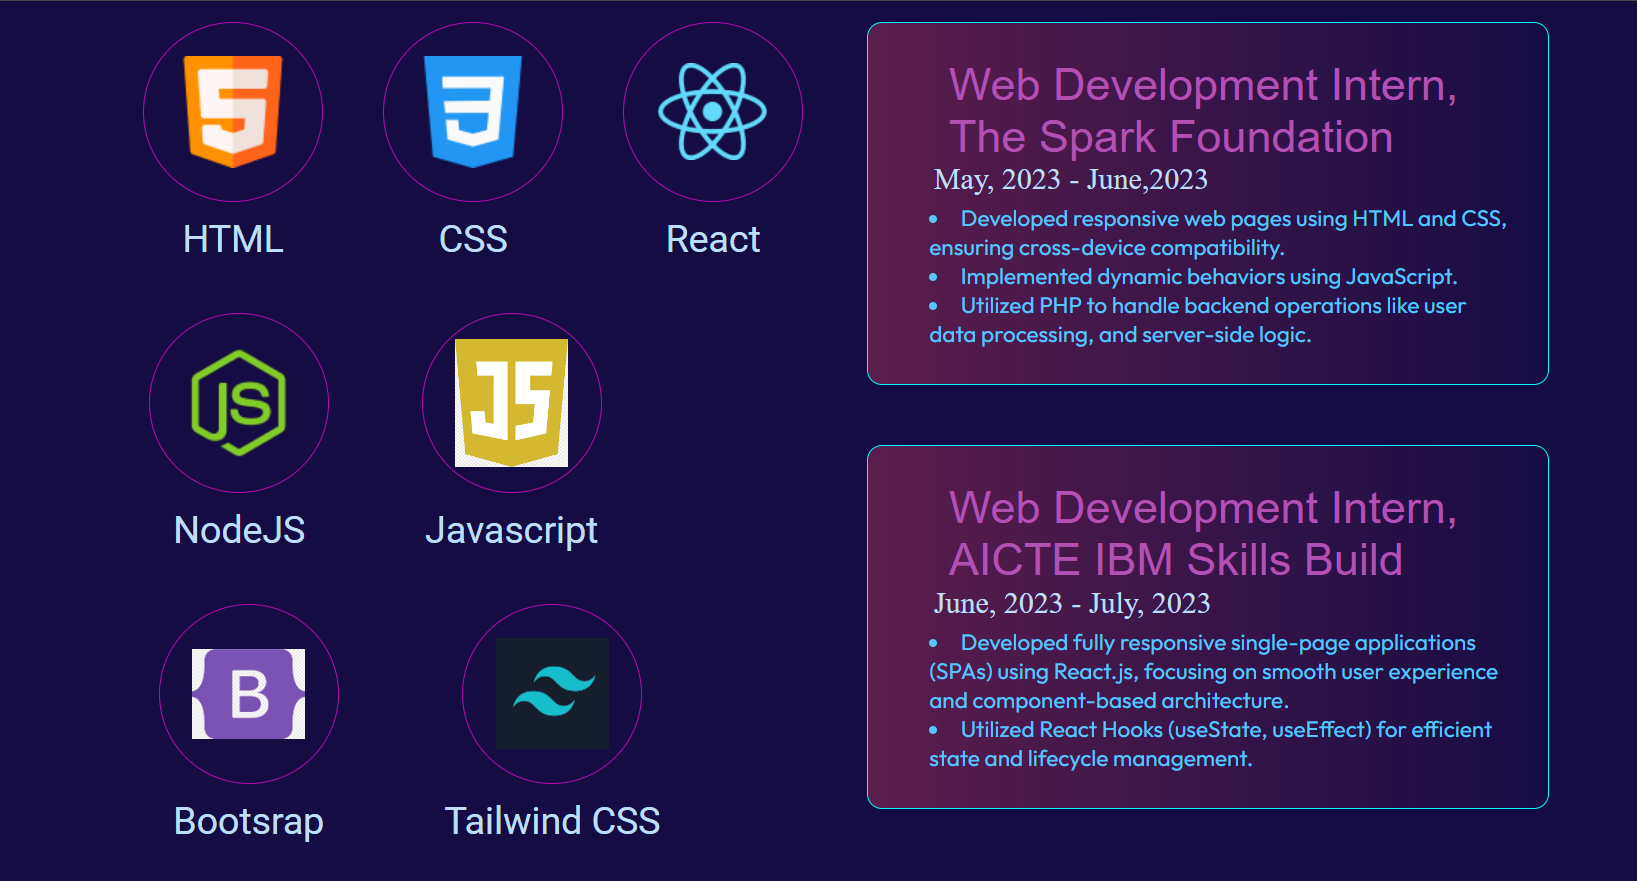
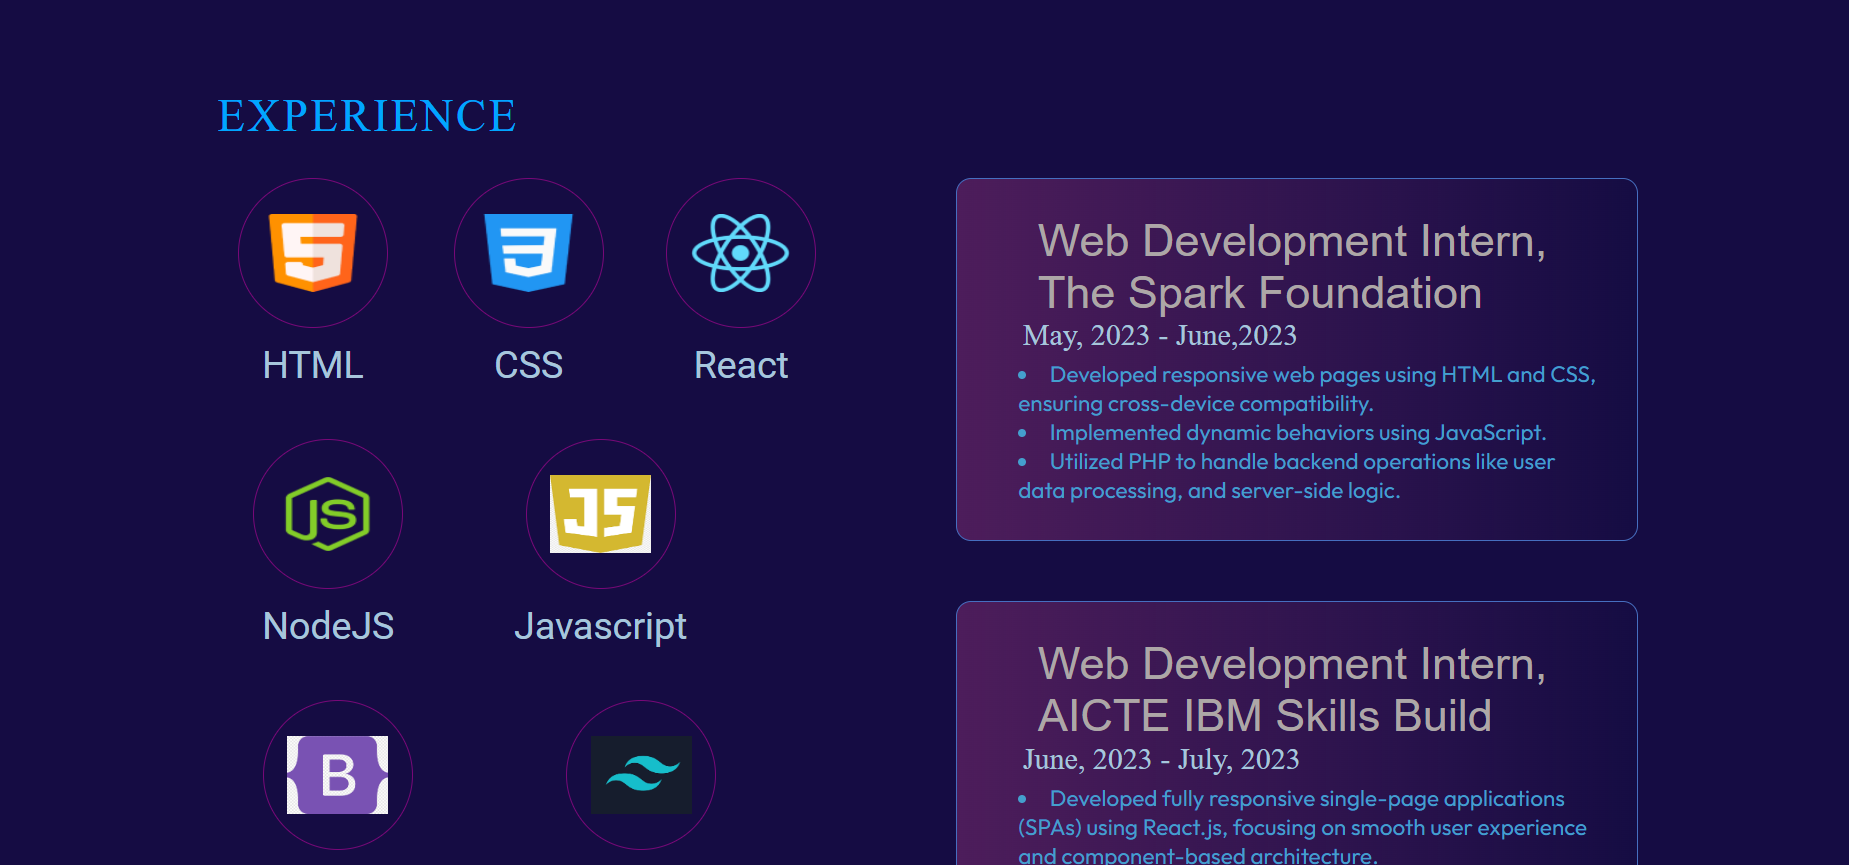
ninth commit

diff --git a/src/components/Experience/Experience.module.css b/src/components/Experience/Experience.module.css
@@ -82,7 +82,7 @@
   align-items: center;
   gap: 17px;
   background: #19376d;
-  background: linear-gradient(90deg, #5b1d4d 0%, rgba(72, 27, 114, 0) 100%);
+  background: linear-gradient(90deg, #4d1d5b 0%, rgba(72, 27, 114, 0) 100%);
   border-radius: 10px;
  
   padding: 24px;
@@ -118,7 +118,7 @@
   list-style-position: inside;
   font-size: 15px;
   list-style-type: disc;
-  color:rgb(85, 198, 254);
+  color:rgb(68, 159, 205);
   margin-left: 17px;
 }
 

diff --git a/src/components/About/About.module.css b/src/components/About/About.module.css
@@ -145,7 +145,8 @@ h3 {
 h3{
   /* color:rgb(113, 56, 183); */
   font-family:font-serif;
-color:rgb(129, 64, 142);
+/* color:rgb(129, 64, 142); */
+color:rgb(173, 167, 167);
 font-weight: 200;
 font-family: Arial, Helvetica, sans-serif;
 }

diff --git a/src/components/Contact/Contact.module.css b/src/components/Contact/Contact.module.css
@@ -92,7 +92,7 @@ font-size:18px;
 }
 
 .interior{
-  color:rgb(120, 36, 99);
+  color:rgb(219, 185, 210);
   font-size: 20px;
 }
 .submitButton:hover {
